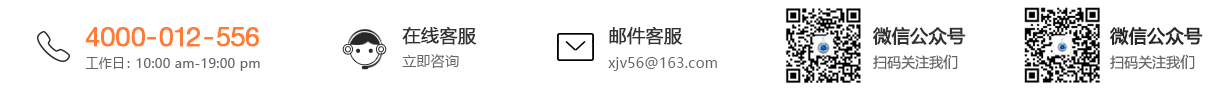
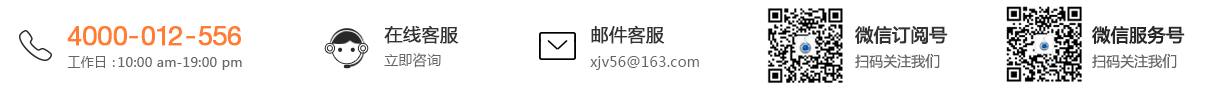
222

diff --git a/freeSearch/freeSearch.html b/freeSearch/freeSearch.html
@@ -720,9 +720,9 @@
 							+'<span class="hasColoR bigFt fontStyle">03</span>秒'
 						+'</p>';
 							if(data.data.two.remain==0){
-                                str1+='<a href="##" data-mycompanyId="'+data.data.two.companyId+'" lass="liji_baojia" data-baojiaid_id="'+data.data.two.buyingId+'" style="background-color: #666666;"><button>立即报价</button></a>';
+                                str1+='<a href="javascript:;" data-mycompanyId="'+data.data.two.companyId+'" lass="liji_baojia" data-baojiaid_id="'+data.data.two.buyingId+'" style="background-color: #666666;"><button>立即报价</button></a>';
 							}else{
-                                str1+='<a href="offer.html" data-mycompanyId="'+data.data.two.companyId+'" class="liji_baojia" data-baojiaid_id="'+data.data.two.buyingId+'"><button>立即报价</button></a>';
+                                str1+='<a href="javascript:;" data-mycompanyId="'+data.data.two.companyId+'" class="liji_baojia" data-baojiaid_id="'+data.data.two.buyingId+'"><button>立即报价</button></a>';
 							}
 						str1+='<p class="smBm" style="position: absolute;bottom: 13px;text-align: center;padding-left: 0px;width: 100%;">已有 <span>'+data.data.two.allQuoteNumber+' </span>家报价</p>';
 
@@ -749,10 +749,11 @@
 				var shopCompanyId = $(this).attr("data-mycompanyId");
 				if(companyId == shopCompanyId){
 					alert("您不能对自己公司商品进行报价");
+				}else{
+					window.localStorage.setItem('baojiaid', $(this).attr('data-baojiaid_id'));
+					$(this).attr('href', 'offer.html');
 				}
-				window.localStorage.setItem('baojiaid', $(this).attr('data-baojiaid_id'));
-
-				$(this).attr('href', 'offer.html');
+				
 			});
 
 
@@ -888,9 +889,9 @@
 				        				+'<span class="hasColoR bigFt time_seconds fontStyle">03</span>秒'
 				        			+'</p>';
                                 if(data.data.list[i].remain==0){
-                                    str+='<a href="##" class="button "  ><button style="background-color: #999999;border: #999999;outline: none;">立即报价</button></a>';
+                                    str+='<a href="javascript:;" class="button "  ><button style="background-color: #999999;border: #999999;outline: none;">立即报价</button></a>';
 								}else{
-                                    str+='<a href="offer.html" class="button liji_baojia" data-mycompanyId="'+data.data.list[i].warehouse.ownedCompanyId+'" data-baojiaid_id="'+data.data.list[i].buyingId+'"><button>立即报价</button></a>';
+                                    str+='<a href="javascript:;" class="button liji_baojia" data-mycompanyId="'+data.data.list[i].warehouse.ownedCompanyId+'" data-baojiaid_id="'+data.data.list[i].buyingId+'"><button>立即报价</button></a>';
 								}
 
 				        			str+='<p class="smBm" style="position: absolute;bottom: 15px;text-align: center;padding-left: 0px;width: 100%;">已有 <span>'+data.data.list[i].interestCount+' </span>家报价</p>'

diff --git a/obj/objDetails.html b/obj/objDetails.html
@@ -617,7 +617,7 @@
 								<span class="dazong">纯度：<%=productPurity%>%</span>
 								<span class="shiji">纯度：<%=productPurity%>%</span>
 								<span class="shiji">规格：<%=productSpecUnitStr%></span>
-								<span class="dazong">规格：元/吨</span>
+								<span class="dazong">规格：<%=productSpecUnitStr%></span>
 								<span>工业级别：<%=levelName%></span>
 								<span>形态：<%=productFormStr%></span>
 							</p>
@@ -750,7 +750,7 @@
 								<div class="spxq" style="margin-right: 53px;float: left;">
 									<p><i>商品名称：</i><span class="blueClor"><%=productName%></span> </p>
 									<p class="shiji"><i>规       格：</i><%=productSpecUnitStr%></p>
-									<p class="dazong"><i>规       格：</i>元/吨</p>
+									<p class="dazong"><i>规       格：</i><%=productSpecUnitStr%></p>
 									<p><i>产品等级：</i><%=levelName%></p>
 
 								</div>

diff --git a/index.html b/index.html
@@ -897,7 +897,7 @@
 			<a href="##" id="showCd">
 				<img src="img/indexEcode.png"/> 
 				<div class="showCode">
-					<img src="img/fuwuhao.png" style="width: 100px;"/>
+					<img src="img/dingyuehao.png" style="width: 100px;"/>
 				</div>
 			</a>
 			<a href="##" id="tousu"><img src="img/indedxBi.png"/> </a>
@@ -1357,10 +1357,11 @@
 				var shopCompanyId = $(this).attr("data-mycompanyId");
 				if(companyId == shopCompanyId){
 					alert("您不能对自己公司商品进行报价");
+				}else{
+					window.localStorage.setItem('baojiaid', $(this).attr('data-baojiaid_id'));
+					$(this).attr('href', 'freeSearch/offer.html');
 				}
-				window.localStorage.setItem('baojiaid', $(this).attr('data-baojiaid_id'));
-
-				$(this).attr('href', 'freeSearch/offer.html');
+				
 			});
 
 			function distanceTime2(id, deadtime) {  

diff --git a/flashSale/buying.html b/flashSale/buying.html
@@ -145,7 +145,7 @@
 			<a href="##" id="showCd">
 				<img src="../img/indexEcode.png"/> 
 				<div class="showCode">
-					<img src="../img/erwCode.png" />
+					<img src="../img/dingyuehao.png" />
 				</div>
 			</a>
 			<a href="##" id="tousu"><img src="../img/indedxBi.png"/> </a>

diff --git a/flashSale/flashSale.html b/flashSale/flashSale.html
@@ -211,7 +211,7 @@
 			<a href="##" id="showCd">
 				<img src="../img/indexEcode.png"/> 
 				<div class="showCode">
-					<img src="../img/erwCode.png" />
+					<img src="../img/dingyuehao.png" />
 				</div>
 			</a>
 			<a href="##" id="tousu"><img src="../img/indedxBi.png"/> </a>

diff --git a/spotGoods/reagentMall.html b/spotGoods/reagentMall.html
@@ -531,7 +531,7 @@
 			<a href="##" id="showCd">
 				<img src="../img/indexEcode.png"/> 
 				<div class="showCode">
-					<img src="../img/erwCode.png" />
+					<img src="../img/dingyuehao.png" />
 				</div>
 			</a>
 			<a href="##" id="tousu"><img src="../img/indedxBi.png"/> </a>

diff --git a/spotGoods/spotGoods.html b/spotGoods/spotGoods.html
@@ -625,7 +625,7 @@
 			<a href="##" id="showCd">
 				<img src="../img/indexEcode.png"/> 
 				<div class="showCode">
-					<img src="../img/erwCode.png" />
+					<img src="../img/dingyuehao.png" />
 				</div>
 			</a>
 			<a href="##" id="tousu"><img src="../img/indedxBi.png"/> </a>

diff --git a/css/home.css b/css/home.css
@@ -193,6 +193,7 @@ background: url(../img/wcleftBoxBg.png) no-repeat;background-size:contain ;backg
 }
 .fxd .showCode img{
 	margin-top: 0;
+	height: 100%;
 }
 .showCode:after{
     content: '';
